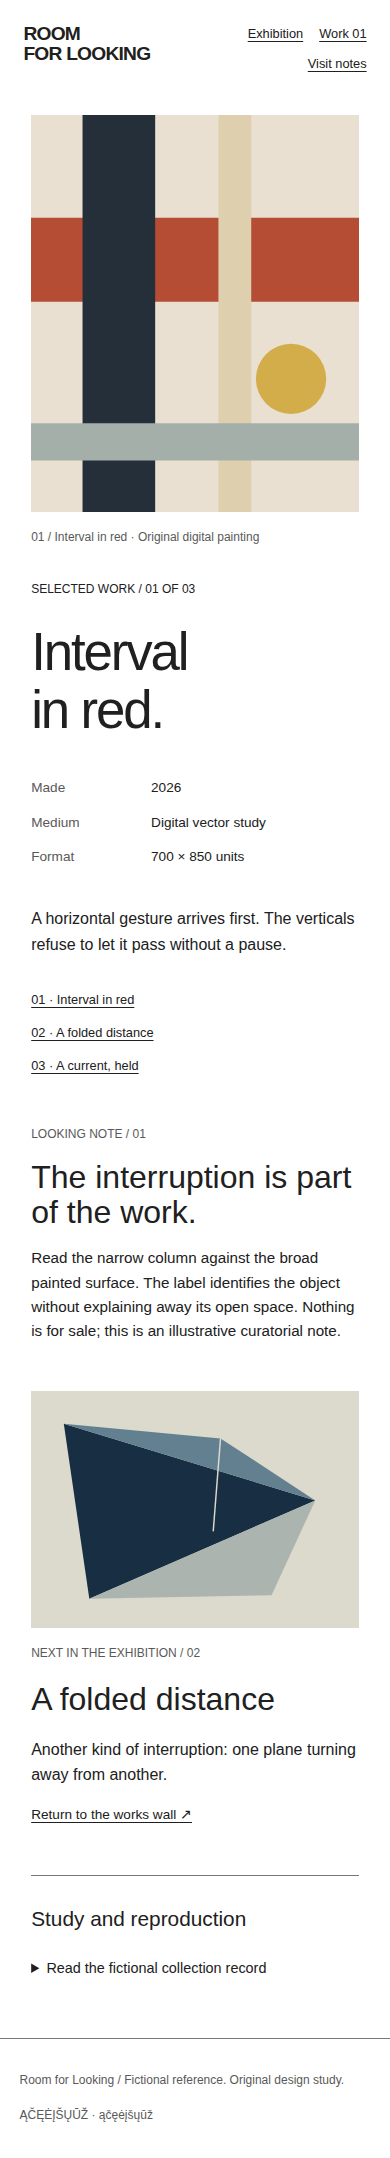
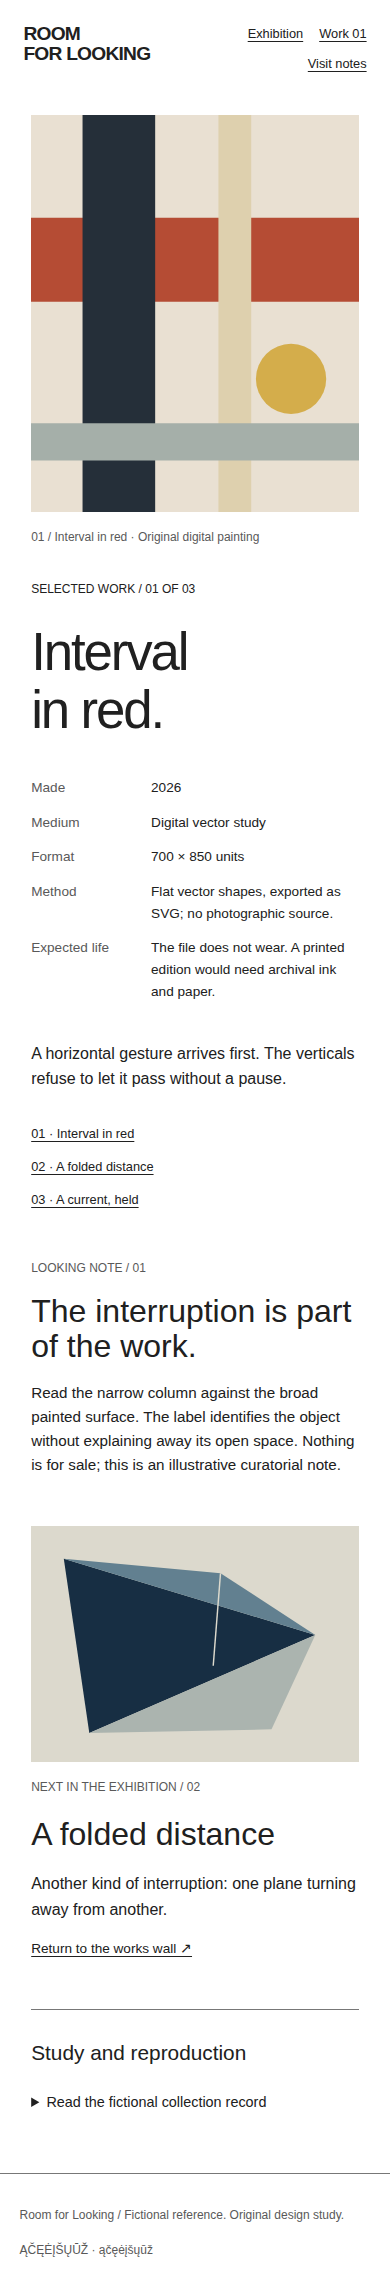
[S48] Pertvarka: Gallery White Cube (#95)
* feat(gallery-white-cube): add wall label chooser, route plan and object record

- Wall labels use native radio buttons so one note shows at a time.
- A labelled route plan explains the order of the room.
- The single-work dossier records method and expected life.
- Update style.md and layouts.json to match.

Claude-Session: https://claude.ai/code/session_01UNVqEgRscSKB9PdVUupPsp

* chore: regenerate canonical previews for gallery-white-cube

* docs: add S48 evidence for Gallery White Cube redesign

Records canonical previews run 39825841779, the four-PNG rubric review (12/12) and the limits of this review.

Claude-Session: https://claude.ai/code/session_01UNVqEgRscSKB9PdVUupPsp

* fix(gallery-white-cube): make wall label radios visible controls

Visually hidden radios were reported as covered controls by the browser gate. The radios now sit inside their tab labels and stay visible and uncovered.

Claude-Session: https://claude.ai/code/session_01UNVqEgRscSKB9PdVUupPsp

* chore: regenerate canonical previews for gallery-white-cube

* docs: update S48 evidence after browser gate fix

Records the failed first CI gate, the fix in 84e54d8 and the final canonical previews run 39826936478 at bot commit 82b3ab8.

Claude-Session: https://claude.ai/code/session_01UNVqEgRscSKB9PdVUupPsp

---------

diff --git a/styles/gallery-white-cube/reference/style.css b/styles/gallery-white-cube/reference/style.css
@@ -1,1 +1,1 @@
-*{box-sizing:border-box}html{scroll-behavior:smooth}body{margin:0;background:var(--color-background);color:var(--color-text);font:1rem/1.6 var(--font-body)}a{color:inherit;text-underline-offset:.25em}a:hover{color:var(--color-accent)}button,input,select{font:inherit}button,summary{cursor:pointer}button{color:var(--color-on-accent);background:var(--color-accent);border:1px solid var(--color-border);padding:.6rem 1rem}a,button,summary,input,select{touch-action:manipulation}:focus-visible{outline:3px solid var(--color-focus);outline-offset:4px}.skip{position:absolute;top:0;left:0;transform:translateY(-200%);padding:1rem;background:var(--color-background);z-index:99}.skip:focus{transform:none}h1,h2,h3,p,figure{margin:0}h1,h2,h3{font-family:var(--font-display);line-height:1.1;font-weight:400}img,svg{display:block;max-width:100%;height:auto}header,main,footer{min-width:0}nav{display:flex;gap:1.5rem;flex-wrap:wrap}details p{padding:1rem 0;max-width:65ch}summary{padding:.65rem 0}footer{display:flex;justify-content:space-between;gap:1rem;flex-wrap:wrap;padding:2rem 5vw;font-size:.75rem;color:var(--color-muted);border-top:1px solid var(--color-border)}@media(prefers-reduced-motion:reduce){html{scroll-behavior:auto}*,*::before,*::after{animation:none!important;transition:none!important}}header{padding:2.6rem 5vw;display:grid;grid-template-columns:1fr 2fr 1fr;align-items:start;gap:2rem;font-size:.8rem}.identity{font-size:1.2rem;line-height:1.05;letter-spacing:-.04em;font-weight:700;text-decoration:none}header>p{text-align:right;color:var(--color-muted)}main{max-width:1440px;margin:auto}.intro{display:grid;grid-template-columns:1fr 2fr 1fr;padding:3.5rem 5vw 4rem;gap:2rem;align-items:start}.intro>p:first-child{font-size:.75rem;max-width:15ch}.intro h1{font-size:clamp(2.2rem,3vw,3.1rem);max-width:13ch}.intro>p:last-child{font-size:.9rem;color:var(--color-muted);max-width:25ch}.wall{display:grid;grid-template-columns:1.1fr 1.35fr 1fr;gap:6vw;padding:1rem 7vw 6rem;align-items:start}.wall .fold{padding-top:8rem}.wall .current{padding-top:3rem}.work>a{display:block}.work img{width:100%}.work figcaption{font-size:.8rem;padding-top:1rem}.work figcaption span{display:block}.work figcaption span+span{color:var(--color-muted);font-size:.75rem;margin-top:.5rem}.curator{margin:2rem 20vw 7rem 36vw;max-width:48ch}.curator h2{font-size:1.9rem;margin-bottom:1.5rem}.curator a{display:inline-block;margin-top:1.5rem;font-size:.85rem}.visit{margin:0 7vw 4rem;padding-top:2rem;border-top:1px solid var(--color-border);display:grid;grid-template-columns:1fr 2fr;gap:2rem}.visit>h2{font-size:1.3rem}.visit p,.visit details{max-width:65ch;font-size:.9rem}.visit details{grid-column:2}.single{display:grid;grid-template-columns:1.8fr 1fr;gap:8vw;padding:2rem 8vw 5rem;align-items:start}.single figure{width:100%;max-width:570px;margin:auto}.single img{width:100%}.single figcaption{font-size:.75rem;color:var(--color-muted);margin-top:1rem}.single aside{padding-top:2rem}.single aside>p:first-child{font-size:.75rem}.single h1{font-size:3.7rem;letter-spacing:-.04em;margin:2.5rem 0}.single dl{margin:2rem 0;font-size:.85rem}.single dl>div{display:grid;grid-template-columns:1fr 2fr;gap:1rem;padding:.4rem 0}.single dd{margin:0}.single dt{color:var(--color-muted)}.single aside>p{max-width:33ch}.single nav{display:flex;flex-direction:column;gap:.8rem;margin-top:3rem;font-size:.8rem}.object-note{display:grid;grid-template-columns:1fr 2fr 1.5fr;gap:3rem;margin:2rem 8vw 6rem}.object-note>p:first-child{font-size:.75rem;color:var(--color-muted)}.object-note h2{font-size:2.2rem}.object-note>p:last-child{font-size:.95rem}.companion{display:grid;grid-template-columns:1.4fr 1fr;gap:8vw;align-items:center;margin:0 15vw 5rem}.companion h2{font-size:2rem;margin:1.2rem 0}.companion div>p:first-child{font-size:.75rem;color:var(--color-muted)}.companion a{display:inline-block;margin-top:1rem;font-size:.85rem}@media(max-width:900px){header{grid-template-columns:1fr 2fr}header>p{display:none}.intro{grid-template-columns:1fr 2fr}.intro>p:last-child{grid-column:2;max-width:40ch}.wall{gap:4vw}.wall .fold{padding-top:5rem}.curator{margin-left:30vw;margin-right:8vw}.single{gap:5vw;padding:1rem 5vw 4rem;grid-template-columns:1.3fr 1fr}.single h1{font-size:3rem}.object-note{grid-template-columns:1fr 2fr}.object-note>p:last-child{grid-column:2}.companion{margin-left:8vw;margin-right:8vw}}@media(max-width:700px){header{display:flex;justify-content:space-between;gap:1rem;padding:1.5rem 6vw}header nav{max-width:20ch;gap:.6rem 1rem;justify-content:flex-end}.intro{display:block;padding:2rem 6vw}.intro>p:first-child{max-width:none}.intro h1{font-size:2.7rem;margin:1.5rem 0;max-width:15ch}.intro>p:last-child{max-width:40ch}.wall{display:block;padding:1rem 10vw 3rem}.wall .work{padding:0;margin-bottom:3rem}.wall .fold{margin-left:-4vw;margin-right:-4vw}.work figcaption{font-size:.85rem}.curator{margin:0 8vw 3rem}.visit{display:block;margin:0 8vw 3rem}.visit>h2{margin-bottom:1rem}.single{display:block;padding:1rem 8vw 3rem}.single figure{max-width:500px}.single aside{padding-top:2rem}.single h1{font-size:3.3rem;margin:1.5rem 0}.single aside>p{max-width:none}.single nav{margin-top:2rem}.object-note{display:block;margin:0 8vw 3rem}.object-note h2{font-size:2rem;margin:1rem 0}.companion{display:block;margin-bottom:3rem}.companion>div{padding-top:1rem}}
+*{box-sizing:border-box}html{scroll-behavior:smooth}body{margin:0;background:var(--color-background);color:var(--color-text);font:1rem/1.6 var(--font-body)}a{color:inherit;text-underline-offset:.25em}a:hover{color:var(--color-accent)}button,input,select{font:inherit}button,summary{cursor:pointer}button{color:var(--color-on-accent);background:var(--color-accent);border:1px solid var(--color-border);padding:.6rem 1rem}a,button,summary,input,select{touch-action:manipulation}:focus-visible{outline:3px solid var(--color-focus);outline-offset:4px}.skip{position:absolute;top:0;left:0;transform:translateY(-200%);padding:1rem;background:var(--color-background);z-index:99}.skip:focus{transform:none}h1,h2,h3,p,figure{margin:0}h1,h2,h3{font-family:var(--font-display);line-height:1.1;font-weight:400}img,svg{display:block;max-width:100%;height:auto}header,main,footer{min-width:0}nav{display:flex;gap:1.5rem;flex-wrap:wrap}details p{padding:1rem 0;max-width:65ch}summary{padding:.65rem 0}footer{display:flex;justify-content:space-between;gap:1rem;flex-wrap:wrap;padding:2rem 5vw;font-size:.75rem;color:var(--color-muted);border-top:1px solid var(--color-border)}@media(prefers-reduced-motion:reduce){html{scroll-behavior:auto}*,*::before,*::after{animation:none!important;transition:none!important}}header{padding:2.6rem 5vw;display:grid;grid-template-columns:1fr 2fr 1fr;align-items:start;gap:2rem;font-size:.8rem}.identity{font-size:1.2rem;line-height:1.05;letter-spacing:-.04em;font-weight:700;text-decoration:none}header>p{text-align:right;color:var(--color-muted)}main{max-width:1440px;margin:auto}.intro{display:grid;grid-template-columns:1fr 2fr 1fr;padding:3.5rem 5vw 4rem;gap:2rem;align-items:start}.intro>p:first-child{font-size:.75rem;max-width:15ch}.intro h1{font-size:clamp(2.2rem,3vw,3.1rem);max-width:13ch}.intro>p:last-child{font-size:.9rem;color:var(--color-muted);max-width:25ch}.wall{display:grid;grid-template-columns:1.1fr 1.35fr 1fr;gap:6vw;padding:1rem 7vw 6rem;align-items:start}.wall .fold{padding-top:8rem}.wall .current{padding-top:3rem}.work>a{display:block}.work img{width:100%}.work figcaption{font-size:.8rem;padding-top:1rem}.work figcaption span{display:block}.work figcaption span+span{color:var(--color-muted);font-size:.75rem;margin-top:.5rem}.curator{margin:2rem 20vw 7rem 36vw;max-width:48ch}.curator h2{font-size:1.9rem;margin-bottom:1.5rem}.curator a{display:inline-block;margin-top:1.5rem;font-size:.85rem}.visit{margin:0 7vw 4rem;padding-top:2rem;border-top:1px solid var(--color-border);display:grid;grid-template-columns:1fr 2fr;gap:2rem}.visit>h2{font-size:1.3rem}.visit p,.visit details{max-width:65ch;font-size:.9rem}.visit details{grid-column:2}.single{display:grid;grid-template-columns:1.8fr 1fr;gap:8vw;padding:2rem 8vw 5rem;align-items:start}.single figure{width:100%;max-width:570px;margin:auto}.single img{width:100%}.single figcaption{font-size:.75rem;color:var(--color-muted);margin-top:1rem}.single aside{padding-top:2rem}.single aside>p:first-child{font-size:.75rem}.single h1{font-size:3.7rem;letter-spacing:-.04em;margin:2.5rem 0}.single dl{margin:2rem 0;font-size:.85rem}.single dl>div{display:grid;grid-template-columns:1fr 2fr;gap:1rem;padding:.4rem 0}.single dd{margin:0}.single dt{color:var(--color-muted)}.single aside>p{max-width:33ch}.single nav{display:flex;flex-direction:column;gap:.8rem;margin-top:3rem;font-size:.8rem}.object-note{display:grid;grid-template-columns:1fr 2fr 1.5fr;gap:3rem;margin:2rem 8vw 6rem}.object-note>p:first-child{font-size:.75rem;color:var(--color-muted)}.object-note h2{font-size:2.2rem}.object-note>p:last-child{font-size:.95rem}.companion{display:grid;grid-template-columns:1.4fr 1fr;gap:8vw;align-items:center;margin:0 15vw 5rem}.companion h2{font-size:2rem;margin:1.2rem 0}.companion div>p:first-child{font-size:.75rem;color:var(--color-muted)}.companion a{display:inline-block;margin-top:1rem;font-size:.85rem}@media(max-width:900px){header{grid-template-columns:1fr 2fr}header>p{display:none}.intro{grid-template-columns:1fr 2fr}.intro>p:last-child{grid-column:2;max-width:40ch}.wall{gap:4vw}.wall .fold{padding-top:5rem}.curator{margin-left:30vw;margin-right:8vw}.single{gap:5vw;padding:1rem 5vw 4rem;grid-template-columns:1.3fr 1fr}.single h1{font-size:3rem}.object-note{grid-template-columns:1fr 2fr}.object-note>p:last-child{grid-column:2}.companion{margin-left:8vw;margin-right:8vw}}@media(max-width:700px){header{display:flex;justify-content:space-between;gap:1rem;padding:1.5rem 6vw}header nav{max-width:20ch;gap:.6rem 1rem;justify-content:flex-end}.intro{display:block;padding:2rem 6vw}.intro>p:first-child{max-width:none}.intro h1{font-size:2.7rem;margin:1.5rem 0;max-width:15ch}.intro>p:last-child{max-width:40ch}.wall{display:block;padding:1rem 10vw 3rem}.wall .work{padding:0;margin-bottom:3rem}.wall .fold{margin-left:-4vw;margin-right:-4vw}.work figcaption{font-size:.85rem}.curator{margin:0 8vw 3rem}.visit{display:block;margin:0 8vw 3rem}.visit>h2{margin-bottom:1rem}.single{display:block;padding:1rem 8vw 3rem}.single figure{max-width:500px}.single aside{padding-top:2rem}.single h1{font-size:3.3rem;margin:1.5rem 0}.single aside>p{max-width:none}.single nav{margin-top:2rem}.object-note{display:block;margin:0 8vw 3rem}.object-note h2{font-size:2rem;margin:1rem 0}.companion{display:block;margin-bottom:3rem}.companion>div{padding-top:1rem}}.labels{margin:0 8vw 5rem;padding-top:2rem;border-top:1px solid var(--color-border)}.labels h2,.route h2{font-size:1.6rem;margin-bottom:.5rem}.hint{font-size:.85rem;color:var(--color-muted);margin-bottom:1.2rem}.tabs{display:flex;flex-wrap:wrap;gap:1rem}.tab{display:flex;align-items:center;gap:.6rem;cursor:pointer;padding:.6rem 1rem;border:1px solid var(--color-border);font-size:.85rem}.tab input{width:1rem;height:1rem;margin:0;accent-color:var(--color-accent)}.tab:has(input:checked){background:var(--color-surface);border-color:var(--color-accent);border-width:2px}.tab:has(input:focus-visible){outline:3px solid var(--color-focus);outline-offset:4px}.notes{margin-top:1.5rem;max-width:60ch;min-height:4em}.notes p{display:none;font-size:1.05rem}.tabs:has(#w1:checked) ~ .notes .n1,.tabs:has(#w2:checked) ~ .notes .n2,.tabs:has(#w3:checked) ~ .notes .n3{display:block}.route{margin:0 8vw 5rem}.plan{max-width:620px;margin:0}.plan svg{width:100%;height:auto;color:var(--color-text)}.plan text{font-size:12px;fill:var(--color-text);font-family:var(--font-body)}.plan figcaption{font-size:.8rem;color:var(--color-muted);margin-top:1rem}@media(max-width:700px){.labels,.route{margin:0 8vw 3rem}}

diff --git a/styles/gallery-white-cube/reference/index.html b/styles/gallery-white-cube/reference/index.html
@@ -1,1 +1,1 @@
-<!doctype html><html lang="en"><head><meta charset="utf-8"><meta name="viewport" content="width=device-width, initial-scale=1"><title>Gallery White Cube — Exhibition works wall</title><link rel="stylesheet" href="tokens.css"><link rel="stylesheet" href="style.css"></head><body class="a"><a class="skip" href="#main">Skip to content</a><header><a class="identity" href="index.html">ROOM<br>FOR LOOKING</a><nav aria-label="Main"><a href="index.html#works">Exhibition</a><a href="alternate.html">Work 01</a><a href="#visit">Visit notes</a></nav><p>Independent art space<br>Demonstration exhibition</p></header><main id="main"><section class="intro"><p>EXHIBITION 013 / ORIGINAL STUDIES</p><h1>A room between things.</h1><p>Three compositions about distance, interruption and the space we leave around a mark.</p></section><section class="wall" id="works" aria-label="Works in the exhibition"><figure class="work interval"><a href="alternate.html" aria-label="Read about Interval in red"><img src="../assets/interval.svg" alt="Red horizontal plane crossing two dark vertical bars on a pale ground"></a><figcaption><span>01 / Interval in red</span><span>Fictional study, 2026<br>Original digital painting</span></figcaption></figure><figure class="work fold"><a href="alternate.html" aria-label="Read about A folded distance"><img src="../assets/fold.svg" alt="Folded blue triangular planes arranged on warm gray"></a><figcaption><span>02 / A folded distance</span><span>Fictional study, 2026<br>Original digital painting</span></figcaption></figure><figure class="work current"><a href="alternate.html" aria-label="Read about A current, held"><img src="../assets/current.svg" alt="Wide pale curved ribbon moving across a terracotta field"></a><figcaption><span>03 / A current, held</span><span>Fictional study, 2026<br>Original digital painting</span></figcaption></figure></section><section class="curator"><h2>Nothing here asks you to hurry.</h2><p>Each work begins with a simple relation: a line meeting a field, a plane folding away, a curve finding its edge. The wall lets these relations stand apart. Captions sit below the work, where they can be read after looking.</p><a href="alternate.html">Read the notes for work 01 ↗</a></section><section class="visit" id="visit"><h2>Before you visit</h2><p>This is a fictional exhibition. The works are original vector studies made for this reference; there is no real venue or booking service.</p><details><summary>About viewing and artwork rights</summary><p>All three studies are original MIT-licensed artwork. A real exhibition should provide the artist, title, date, medium, dimensions and reproduction permission for every work.</p></details></section></main><footer><p>Room for Looking / Fictional reference. Original design study.</p><p lang="lt">ĄČĘĖĮŠŲŪŽ · ąčęėįšųūž</p></footer></body></html>
+<!doctype html><html lang="en"><head><meta charset="utf-8"><meta name="viewport" content="width=device-width, initial-scale=1"><title>Gallery White Cube — Exhibition works wall</title><link rel="stylesheet" href="tokens.css"><link rel="stylesheet" href="style.css"></head><body class="a"><a class="skip" href="#main">Skip to content</a><header><a class="identity" href="index.html">ROOM<br>FOR LOOKING</a><nav aria-label="Main"><a href="index.html#works">Exhibition</a><a href="alternate.html">Work 01</a><a href="#visit">Visit notes</a></nav><p>Independent art space<br>Demonstration exhibition</p></header><main id="main"><section class="intro"><p>EXHIBITION 013 / ORIGINAL STUDIES</p><h1>A room between things.</h1><p>Three compositions about distance, interruption and the space we leave around a mark.</p></section><section class="wall" id="works" aria-label="Works in the exhibition"><figure class="work interval"><a href="alternate.html" aria-label="Read about Interval in red"><img src="../assets/interval.svg" alt="Red horizontal plane crossing two dark vertical bars on a pale ground"></a><figcaption><span>01 / Interval in red</span><span>Fictional study, 2026<br>Original digital painting</span></figcaption></figure><figure class="work fold"><a href="alternate.html" aria-label="Read about A folded distance"><img src="../assets/fold.svg" alt="Folded blue triangular planes arranged on warm gray"></a><figcaption><span>02 / A folded distance</span><span>Fictional study, 2026<br>Original digital painting</span></figcaption></figure><figure class="work current"><a href="alternate.html" aria-label="Read about A current, held"><img src="../assets/current.svg" alt="Wide pale curved ribbon moving across a terracotta field"></a><figcaption><span>03 / A current, held</span><span>Fictional study, 2026<br>Original digital painting</span></figcaption></figure></section><section class="labels" aria-labelledby="labels-h"><h2 id="labels-h">Wall labels</h2><p class="hint">Choose a work to read its wall note.</p><div class="tabs"><label class="tab"><input type="radio" name="work" id="w1" checked><span>01 Interval in red</span></label><label class="tab"><input type="radio" name="work" id="w2"><span>02 A folded distance</span></label><label class="tab"><input type="radio" name="work" id="w3"><span>03 A current, held</span></label></div><div class="notes"><p class="n1">Look where the red band meets the dark verticals. The gap between them is the subject, not the empty space around it.</p><p class="n2">The blue planes share one sharp edge. Notice which plane turns away and which one stays put.</p><p class="n3">The ribbon keeps touching the edge of its field. It seems to move, yet the frame holds it still.</p></div></section><section class="route" aria-labelledby="route-h"><h2 id="route-h">Route through the room</h2><figure class="plan"><svg viewBox="0 0 480 290" role="img" aria-labelledby="plan-t plan-d"><title id="plan-t">Exhibition route plan</title><desc id="plan-d">A rectangular room with an entrance at the bottom. Three works hang on the back wall, labelled 01, 02 and 03 from left to right. A dashed route runs in front of them and leaves through an opening on the right into the notes room.</desc><path d="M200 250 H40 V30 H360 V110 M360 160 V250 H260" fill="none" stroke="currentColor" stroke-width="2"/><rect x="80" y="40" width="50" height="70" fill="none" stroke="currentColor"/><rect x="190" y="60" width="70" height="40" fill="none" stroke="currentColor"/><rect x="300" y="45" width="45" height="55" fill="none" stroke="currentColor"/><text x="98" y="22" text-anchor="middle">01</text><text x="225" y="22" text-anchor="middle">02</text><text x="322" y="22" text-anchor="middle">03</text><polyline points="230,245 230,120 325,120 372,140" fill="none" stroke="currentColor" stroke-dasharray="5 5"/><text x="230" y="272" text-anchor="middle">Entrance</text><text x="400" y="144" text-anchor="middle">Notes room</text></svg><figcaption>Fictional plan, not to scale. Enter, pass the works from 01 to 03, then step through to the notes room.</figcaption></figure></section><section class="curator"><h2>Nothing here asks you to hurry.</h2><p>Each work begins with a simple relation: a line meeting a field, a plane folding away, a curve finding its edge. The wall lets these relations stand apart. Captions sit below the work, where they can be read after looking.</p><a href="alternate.html">Read the notes for work 01 ↗</a></section><section class="visit" id="visit"><h2>Before you visit</h2><p>This is a fictional exhibition. The works are original vector studies made for this reference; there is no real venue or booking service.</p><details><summary>About viewing and artwork rights</summary><p>All three studies are original MIT-licensed artwork. A real exhibition should provide the artist, title, date, medium, dimensions and reproduction permission for every work.</p></details></section></main><footer><p>Room for Looking / Fictional reference. Original design study.</p><p lang="lt">ĄČĘĖĮŠŲŪŽ · ąčęėįšųūž</p></footer></body></html>

diff --git a/styles/gallery-white-cube/reference/alternate.html b/styles/gallery-white-cube/reference/alternate.html
@@ -1,1 +1,1 @@
-<!doctype html><html lang="en"><head><meta charset="utf-8"><meta name="viewport" content="width=device-width, initial-scale=1"><title>Gallery White Cube — Single work with exhibition index</title><link rel="stylesheet" href="tokens.css"><link rel="stylesheet" href="style.css"></head><body class="b"><a class="skip" href="#main">Skip to content</a><header><a class="identity" href="index.html">ROOM<br>FOR LOOKING</a><nav aria-label="Main"><a href="index.html#works">Exhibition</a><a href="alternate.html">Work 01</a><a href="#visit">Visit notes</a></nav><p>Independent art space<br>Demonstration exhibition</p></header><main id="main"><section class="single"><figure><img src="../assets/interval.svg" alt="Red band interrupted by deep blue verticals with a small golden circle"><figcaption>01 / Interval in red · Original digital painting</figcaption></figure><aside><p>SELECTED WORK / 01 OF 03</p><h1>Interval<br>in red.</h1><dl><div><dt>Made</dt><dd>2026</dd></div><div><dt>Medium</dt><dd>Digital vector study</dd></div><div><dt>Format</dt><dd>700 × 850 units</dd></div></dl><p>A horizontal gesture arrives first. The verticals refuse to let it pass without a pause.</p><nav aria-label="Exhibition index"><a href="index.html#works">01 · Interval in red</a><a href="#companion">02 · A folded distance</a><a href="index.html#works">03 · A current, held</a></nav></aside></section><section class="object-note"><p>LOOKING NOTE / 01</p><h2>The interruption is part of the work.</h2><p>Read the narrow column against the broad painted surface. The label identifies the object without explaining away its open space. Nothing is for sale; this is an illustrative curatorial note.</p></section><section class="companion" id="companion"><img src="../assets/fold.svg" alt="Three blue folded planes sharing a sharp edge"><div><p>NEXT IN THE EXHIBITION / 02</p><h2>A folded distance</h2><p>Another kind of interruption: one plane turning away from another.</p><a href="index.html#works">Return to the works wall ↗</a></div></section><section class="visit" id="visit"><h2>Study and reproduction</h2><details><summary>Read the fictional collection record</summary><p>Original digital study, created for Web Style Atlas. All works use the repository MIT licence. Replace these notes with verified artist and collection records in a real adaptation.</p></details></section></main><footer><p>Room for Looking / Fictional reference. Original design study.</p><p lang="lt">ĄČĘĖĮŠŲŪŽ · ąčęėįšųūž</p></footer></body></html>
+<!doctype html><html lang="en"><head><meta charset="utf-8"><meta name="viewport" content="width=device-width, initial-scale=1"><title>Gallery White Cube — Single work with exhibition index</title><link rel="stylesheet" href="tokens.css"><link rel="stylesheet" href="style.css"></head><body class="b"><a class="skip" href="#main">Skip to content</a><header><a class="identity" href="index.html">ROOM<br>FOR LOOKING</a><nav aria-label="Main"><a href="index.html#works">Exhibition</a><a href="alternate.html">Work 01</a><a href="#visit">Visit notes</a></nav><p>Independent art space<br>Demonstration exhibition</p></header><main id="main"><section class="single"><figure><img src="../assets/interval.svg" alt="Red band interrupted by deep blue verticals with a small golden circle"><figcaption>01 / Interval in red · Original digital painting</figcaption></figure><aside><p>SELECTED WORK / 01 OF 03</p><h1>Interval<br>in red.</h1><dl><div><dt>Made</dt><dd>2026</dd></div><div><dt>Medium</dt><dd>Digital vector study</dd></div><div><dt>Format</dt><dd>700 × 850 units</dd></div><div><dt>Method</dt><dd>Flat vector shapes, exported as SVG; no photographic source.</dd></div><div><dt>Expected life</dt><dd>The file does not wear. A printed edition would need archival ink and paper.</dd></div></dl><p>A horizontal gesture arrives first. The verticals refuse to let it pass without a pause.</p><nav aria-label="Exhibition index"><a href="index.html#works">01 · Interval in red</a><a href="#companion">02 · A folded distance</a><a href="index.html#works">03 · A current, held</a></nav></aside></section><section class="object-note"><p>LOOKING NOTE / 01</p><h2>The interruption is part of the work.</h2><p>Read the narrow column against the broad painted surface. The label identifies the object without explaining away its open space. Nothing is for sale; this is an illustrative curatorial note.</p></section><section class="companion" id="companion"><img src="../assets/fold.svg" alt="Three blue folded planes sharing a sharp edge"><div><p>NEXT IN THE EXHIBITION / 02</p><h2>A folded distance</h2><p>Another kind of interruption: one plane turning away from another.</p><a href="index.html#works">Return to the works wall ↗</a></div></section><section class="visit" id="visit"><h2>Study and reproduction</h2><details><summary>Read the fictional collection record</summary><p>Original digital study, created for Web Style Atlas. All works use the repository MIT licence. Replace these notes with verified artist and collection records in a real adaptation.</p></details></section></main><footer><p>Room for Looking / Fictional reference. Original design study.</p><p lang="lt">ĄČĘĖĮŠŲŪŽ · ąčęėįšųūž</p></footer></body></html>

diff --git a/docs/evidence/S48.md b/docs/evidence/S48.md
@@ -1,0 +1,72 @@
+# S48 — įrodymai: Gallery White Cube (pertvarka)
+
+Autorius: Claude Haiku 5.5 / session-S48. Šaka `task/s48-gallery-white-cube`. Peržiūrėtas galutinis kanoninių PNG commit'as `82b3ab8` (po pataisymo `84e54d8`).
+
+## Kas pakeista
+
+- Sienų etikečių komponentas (`reference/index.html`, `reference/style.css`): trys native radio mygtukai su kūrinių pavadinimais, kiekvienas įdėtas į savo etiketę ir matomas. Pasirinkus kūrinį, rodoma tik jo sienos pastaba. Klaviatūra juda tarp pasirinkimų be scenarijaus; pasirinkimas matomas žymėjimu, o fokusas – `:focus-visible` kontūru.
+- Pataisyta po pirmo kanoninio CI nesėkmės: pirmoje versijoje radio mygtukai buvo paslėpti (1 px, `clip`), todėl naršyklės vartai (`scripts/browser-qa.mjs`) pažymėjo juos kaip uždengtus valdiklius. Dabar jie matomi ir nebeuždengti.
+- Ekspozicijos planas: `figure.plan` su SVG planu (įėjimas, trys darbai 01–03, punktyrinis maršrutas, išėjimas į pastabų kambarį). Plane yra `title` ir `desc`, o figcaption sako, kad planas nėra mastelio.
+- Turinio išplėtimas (`reference/alternate.html`): vieno kūrinio įraše pridėti du nauji įrašai – „Method“ (plokšti vektoriniai formos elementai, eksportuoti kaip SVG, be fotografinio šaltinio) ir „Expected life“ (skaitmeninis failas nesidėvi; spausdintam leidimui reikėtų archyvinio rašalo ir popieriaus).
+- `style.md` ir `layouts.json` atnaujinti: A variante aprašytas sienų etikečių pasirinkimas ir maršruto planas, B variante – metodika ir laikas. `style.md` kūno apimtis 1148 žodžiai (ribose 700–1200).
+- Nauji rasteriniai failai ir trečiųjų šalių asset'ai nepridėti; visi vaizdai lieka esami SVG.
+
+## Komandos ir rezultatai
+
+| Komanda | Rezultatas |
+|---|---|
+| `npm run validate` | Nepaleista lokaliai (vartotojo nurodymas); patikra per kanoninį workflow |
+| `npm run build -- --style gallery-white-cube` | Nepaleista lokaliai; patikra per kanoninį workflow |
+| `node --test tests/*.test.mjs` | Nepaleista lokaliai; patikra per kanoninį workflow |
+| Kanoninis workflow `previews.yml` (ref `main`, branch `task/s48-gallery-white-cube`, style `gallery-white-cube`), run `39825841779` | success (prieš pataisymą); bot commit `771b5cd` |
+| Kanoninis workflow `previews.yml`, run `39826936478` (po pataisymo `84e54d8`) | success; bot commit `82b3ab8` su keturiais PNG ir `catalog/previews-manifest.json` atnaujinimu. Tame pačiame žingsnyje vykdomas `npm run check -- --style "$STYLE"` |
+| GitHub PR CI „Browser and accessibility gates“ | Pirmas PR #95 head (`bfe9514`) – failure (uždengti radio valdikliai); pataisyta `84e54d8`; galutinė būsena – PR #95 patikros |
+| `npm run test:browser -- --style gallery-white-cube` | Nepaleista lokaliai; naršyklės vartai tik kanoniniame host'e |
+
+## Keturių kanoninių PNG peržiūra
+
+Peržiūrėta `preview.png`, `preview-mobile.png`, `preview-alt.png`, `preview-alt-mobile.png` iš commit'o `82b3ab8`.
+
+- A desktop: trys darbai skirtingais mastais ant balto sienos; po jais – „Wall labels“ su trimis pasirinkimais ir viena pastaba; kairėje maršruto planas su įėjimu, darbais ir „Notes room“ žyme. Viskas aiškiai atskirta.
+- A mobile: darbai eina viena eile su etikėtėmis po kiekvienu; pasirinkimai lūžta į dvi eilutes, bet skaitomi; planas telefone mažas, bet tvarkingas.
+- B desktop: didelis paveikslas kairėje, dosjė dešinėje su „Method“ ir „Expected life“ eilutėmis; looking note ir companion darbas žemiau; visi tekstai skaitomi.
+- B mobile: paveikslas, dosjė, pastaba ir companion eina vertikaliai; be horizontalaus slinkimo.
+
+## Rubrika (`core/quality-rubric.md`)
+
+Artimiausias kaimynas pagal katalogą: `quiet-luxury`. Šios sesijos metu jo PNG šalia nebuvo atidarytas, todėl palyginimas paremtas šios peržiūros vaizdais ir katalogo aprašymu – tai nurodyta apribojimuose.
+
+| Kriterijus | Balas | Priežastis |
+|---|---|---|
+| Atpažinimas | 2 | Baltas siena, darbai skirtingais mastais, etiketės už paveikslo, numeruotas kūrinių indeksas – visi matomi A ir B. |
+| Skirtumas nuo kaimyno | 2 | Quiet-luxury aprašyme – šiltos stačiakampės stalo scenos ir produkto siluetai. Čia – balta ekspozicijos siena su originaliais darbais ir maršruto planu. Lyginta pagal šią peržiūrą ir katalogo aprašymą. |
+| A/B skirtumas | 2 | A – ekspozicijos siena su pasirenkamomis etiketėmis ir planu; B – vienas darbas su dosjė, pastaba ir antru darbu. Skirtinga kompozicija ir turinio užduotis, bendras parašas. |
+| Hierarchija | 2 | Antraštė, darbų etiketės, pasirinkimų mygtukai, planas ir dosjė turi aiškius vaidmenis ir skaitymo tvarką. |
+| Mobile | 2 | A ir B reflow sąmoningai; darbai eina su etiketėmis, planas ir pasirinkimai telefone skaitomi; be horizontalaus slinkimo peržiūroje. |
+| Adaptability | 2 | `style.md` nurodo, kaip pritaikyti etiketes, planą ir metodikos įrašus realiam kolekcijos turiniui. |
+
+**Iš viso 12/12**, be nulio; atpažinimas ir skirtumas nuo kaimyno – 2.
+
+Vertinimą atliko šios užduoties vykdytojas, ne nepriklausomas peržiūrėtojas.
+
+## Invariantai (3–5)
+
+1. Darbai visada turi savo tikrą proporciją ir nėra apkarpyti.
+2. Etiketės yra už paveikslo ribų, o pastabos rodomos vienu metu tik vienam darbui.
+3. Planas ir sienų pasirinkimai nurodo tą pačią tvarką (01, 02, 03).
+4. Įrašai apie metodiką ir laiką yra iliustraciniai; nėra kainos, pirkimo ar tikro kolekcijos įrašo.
+
+## Anti-pattern'ai (tiksliai 3)
+
+1. Trijų kvadratų tinklelis be etikečių.
+2. Tuščias tekstas po paveikslais, kurio niekas neskaito.
+3. Sienų pasirinkimai, kurie veikia tik su pelės paspaudimu ir nerodo, ką pasirinko.
+
+## Apribojimai
+
+- Lokalūs `validate`, `build` ir `test` nepaleisti; patikra – kanoniniame workflow `39826936478` ir GitHub CI.
+- `npm run check` ir `npm run test:browser` lokaliai nepaleisti; `check` rezultatas – kanoniniame workflow.
+- Neapžiūrėtas quiet-luxury PNG šioje sesijoje; palyginimas paremtas katalogo aprašymu.
+- Maršruto planas desktop versijoje palyginti mažas; tai sąmoningai, kad nedominuotų prieš darbus.
+- Darbai, pastabos ir laikai iliustraciniai; tai nurodyta puslapyje.
+- Automatiniai patikrinimai nėra pilnas WCAG patikrinimas.

diff --git a/styles/gallery-white-cube/style.md b/styles/gallery-white-cube/style.md
@@ -35,11 +35,11 @@ Semantic tokens define the page, supporting surface, readable foreground, second
 
 ## Layout A
 
-A compact institutional header opens into a modest exhibition title. Below, three paintings occupy unequal wall positions: a tall interrupted red study, a low blue folded form and a warm curved ribbon. Attached labels identify each work after it has been seen. A narrow curatorial statement follows the exhibition wall, then practical demonstration and rights notes close the page. The wall is a spatial arrangement of different original works, not identical cards with interchangeable images.
+A compact institutional header opens into a modest exhibition title. Below the wall, a wall-label chooser uses three native radio buttons, so one work’s note appears at a time and keyboard users can move between them without script. Below, three paintings occupy unequal wall positions: a tall interrupted red study, a low blue folded form and a warm curved ribbon. Attached labels identify each work after it has been seen. A narrow curatorial statement follows the exhibition wall, a route plan shows the order of the room, and then practical demonstration and rights notes close the page. The wall is a spatial arrangement of different original works, not identical cards with interchangeable images. Route plans explain the room’s order rather than decorating it.
 
 ## Layout B
 
-The selected painting occupies a tall left field. A narrow right dossier carries title, medium, format, date and a numbered exhibition index. Beneath this concentrated first view, a looking note explains one relationship inside the painting; a smaller companion work changes the pace before collection-record details close the page. This composition starts with a particular work and its record, unlike the exhibition overview. The index and companion link give truthful paths back into the collection.
+The selected painting occupies a tall left field. A narrow right dossier carries title, medium, format, date and a numbered exhibition index. Beneath this concentrated first view, a looking note explains one relationship inside the painting; a smaller companion work changes the pace before collection-record details close the page. This composition starts with a particular work and its record, unlike the exhibition overview. The dossier records the method and expected life of the work, and the index and companion link give truthful paths back into the collection.
 
 ## Imagery
 
